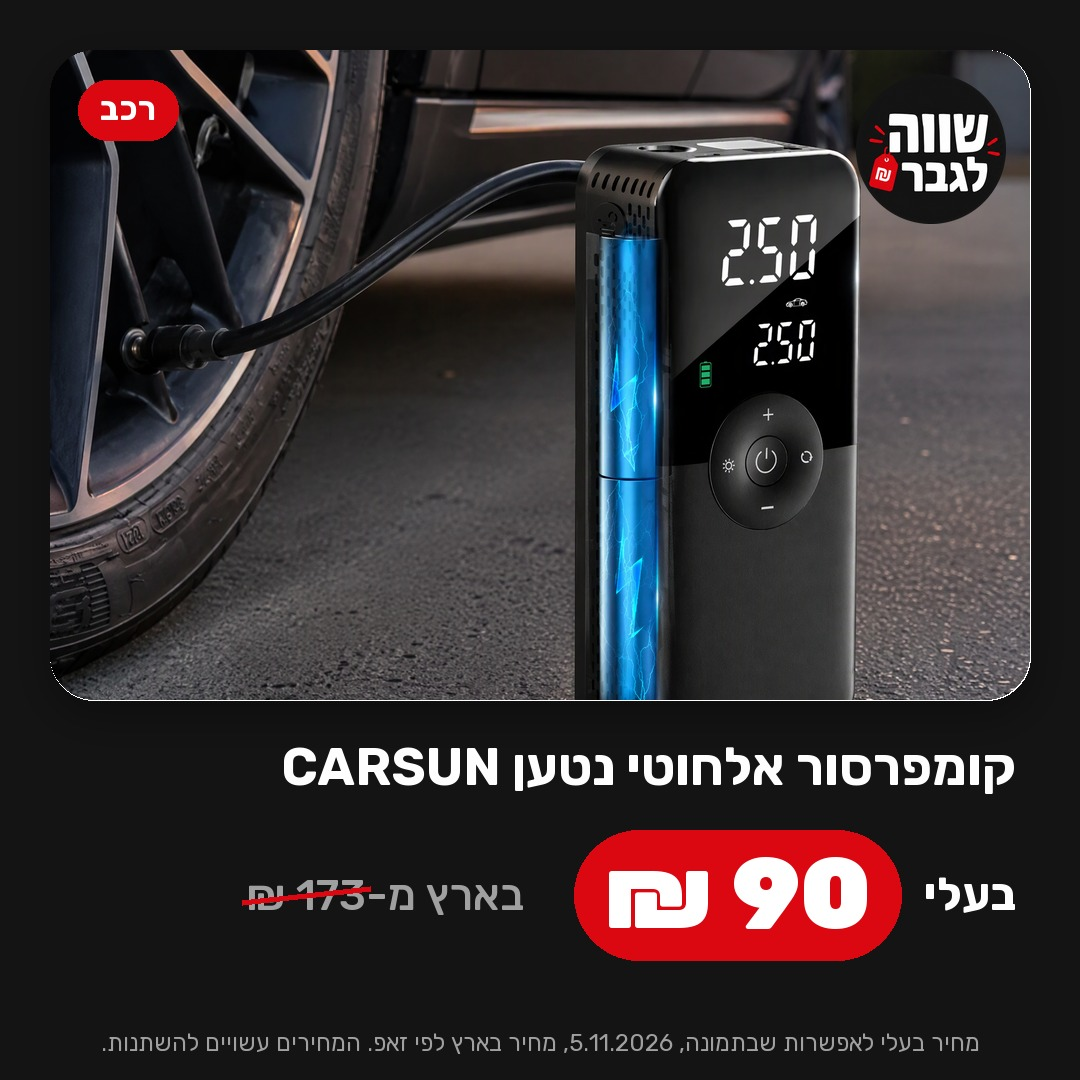
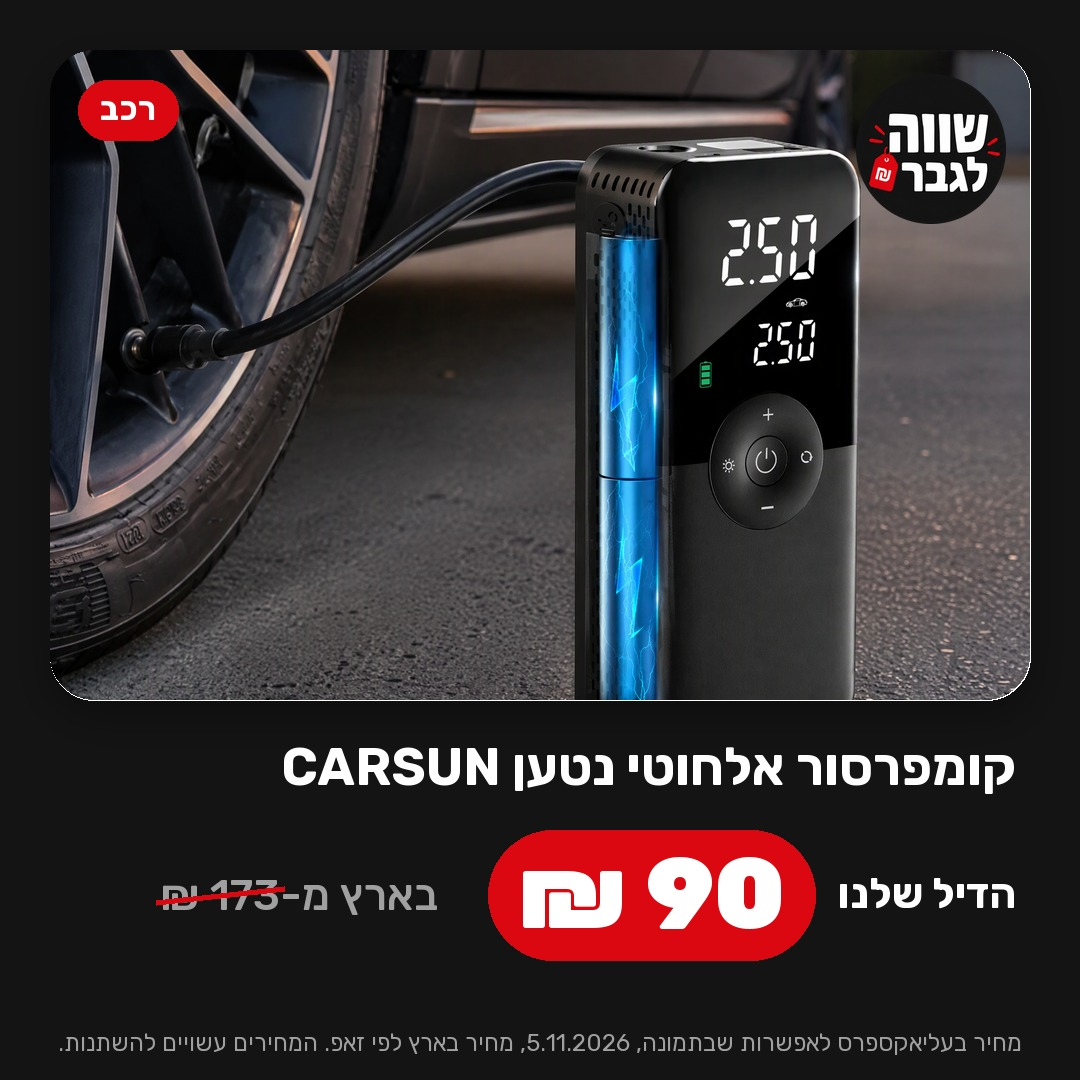
Store-neutral brand copy: הדיל שלנו instead of בעלי, generic store disclosure
Deals will also come from stores other than AliExpress. Homepage, /join, /join-b, /deals and the
/guide example post now use הדיל שלנו / אונליין; per-deal buy lines still name the real store.

Claude-Session: https://claude.ai/code/session_014xAJSXDDb9xLF4ARjncj2H

Changed region(s): [[0.1528, 0.7639, 0.9472, 0.9167], [0.0611, 0.9472, 0.9472, 0.9778]]

diff --git a/deals/index.html b/deals/index.html
@@ -1,11 +1,7 @@
-<!doctype html><html lang="he" dir="rtl"><head>
-<!-- Google tag (GA4) -->
-<script async src="https://www.googletagmanager.com/gtm.js?id=GTM-KSTKHQN8"></script>
-<script>window.dataLayer=window.dataLayer||[];function gtag(){dataLayer.push(arguments)}gtag('js',new Date());</script>
-<meta charset="utf-8">
+<!doctype html><html lang="he" dir="rtl"><head><meta charset="utf-8">
 <meta name="viewport" content="width=device-width,initial-scale=1,viewport-fit=cover">
 <title>כל הדילים | שווה לגבר</title>
-<meta name="description" content="כל הדילים שפרסמנו בקבוצת שווה לגבר: המחיר בארץ מול המחיר בעליאקספרס, במקום אחד.">
+<meta name="description" content="כל הדילים שפרסמנו בקבוצת שווה לגבר: המחיר בארץ מול הדיל שלנו, במקום אחד.">
 <meta name="theme-color" content="#131413"><link rel="icon" href="../img/icon.png">
 <link rel="preconnect" href="https://fonts.googleapis.com"><link rel="preconnect" href="https://fonts.gstatic.com" crossorigin>
 <link rel="stylesheet" href="https://fonts.googleapis.com/css2?family=Rubik:wght@400;500;600;700;800;900&display=swap">
@@ -45,6 +41,9 @@ details p{margin:6px 0 0}
 footer{max-width:1100px;margin:0 auto;padding:0 16px 40px;font-size:13px;color:#6b6a63}
 @media (max-width:520px){.join{margin-inline-start:0;width:100%;justify-content:center}}
 </style>
+<!-- Google tag (GA4) -->
+<script async src="https://www.googletagmanager.com/gtm.js?id=GTM-KSTKHQN8"></script>
+<script>window.dataLayer=window.dataLayer||[];function gtag(){dataLayer.push(arguments)}gtag('js',new Date());</script>
 <!-- Meta Pixel -->
 <script>!function(f,b,e,v,n,t,s){if(f.fbq)return;n=f.fbq=function(){n.callMethod?n.callMethod.apply(n,arguments):n.queue.push(arguments)};if(!f._fbq)f._fbq=n;n.push=n;n.loaded=!0;n.version='2.0';n.queue=[];t=b.createElement(e);t.async=!0;t.src=v;s=b.getElementsByTagName(e)[0];s.parentNode.insertBefore(t,s)}(window,document,'script','https://connect.facebook.net/en_US/fbevents.js');
 fbq('init','1895010951663413');fbq('track','PageView');
@@ -57,84 +56,94 @@ var h=a.getAttribute('href');if(!h||h.charAt(0)==='#'||ev.metaKey||ev.ctrlKey)re
 <div><h1>כל הדילים במקום אחד</h1><p class="sub">כל מה שפרסמנו בקבוצת שווה לגבר, מהחדש לישן</p></div>
 <a class="join" href="https://chat.whatsapp.com/LGcSTJL4X9g83Wef4XJM8X" rel="noopener" data-join><svg viewBox="0 0 32 32" aria-hidden="true"><path fill="currentColor" d="M16 3a13 13 0 0 0-11.2 19.6L3 29l6.6-1.7A13 13 0 1 0 16 3zm0 23.6c-2 0-4-.5-5.7-1.6l-.4-.2-3.9 1 1-3.8-.3-.4A10.6 10.6 0 1 1 16 26.6zm5.8-7.9c-.3-.2-1.9-.9-2.2-1-.3-.1-.5-.2-.7.2l-1 1.2c-.2.2-.4.2-.7.1a8.7 8.7 0 0 1-4.3-3.8c-.3-.6.3-.5.9-1.7.1-.2 0-.4 0-.6l-1-2.4c-.3-.6-.5-.5-.7-.5h-.6c-.2 0-.6.1-.9.4-.3.3-1.2 1.2-1.2 2.9s1.2 3.3 1.4 3.6c.2.2 2.4 3.7 5.8 5.2 2.2.9 3 1 4.1.8.7-.1 1.9-.8 2.2-1.6.3-.8.3-1.4.2-1.6-.1-.1-.3-.2-.6-.3z"/></svg><span>לקבוצת הוואטסאפ</span></a></div></div></header>
 <div class="tools"><input id="q" type="search" placeholder="חיפוש מוצר…" aria-label="חיפוש מוצר"></div>
-<div class="chips" role="group" aria-label="קטגוריה"><button class="chip" type="button" data-t="" aria-pressed="true">הכל</button><button class="chip" type="button" data-t="__il" id="il" aria-pressed="false">📦 משלוח מישראל</button><button class="chip" type="button" data-t="גאדג׳טים" aria-pressed="false">גאדג׳טים</button><button class="chip" type="button" data-t="טיפוח" aria-pressed="false">טיפוח</button><button class="chip" type="button" data-t="כלי עבודה" aria-pressed="false">כלי עבודה</button><button class="chip" type="button" data-t="כלים" aria-pressed="false">כלים</button><button class="chip" type="button" data-t="לרכב" aria-pressed="false">לרכב</button><button class="chip" type="button" data-t="לרכב ולטיולים" aria-pressed="false">לרכב ולטיולים</button><button class="chip" type="button" data-t="רכב" aria-pressed="false">רכב</button><button class="chip" type="button" data-t="שטח" aria-pressed="false">שטח</button><button class="chip" type="button" data-t="תאורה" aria-pressed="false">תאורה</button></div>
+<div class="chips" role="group" aria-label="קטגוריה"><button class="chip" type="button" data-t="" aria-pressed="true">הכל</button><button class="chip" type="button" data-t="__il" id="il" aria-pressed="false">📦 משלוח מישראל</button><button class="chip" type="button" data-t="גאדג׳טים" aria-pressed="false">גאדג׳טים</button><button class="chip" type="button" data-t="טיפוח" aria-pressed="false">טיפוח</button><button class="chip" type="button" data-t="כושר" aria-pressed="false">כושר</button><button class="chip" type="button" data-t="כלי עבודה" aria-pressed="false">כלי עבודה</button><button class="chip" type="button" data-t="כלים" aria-pressed="false">כלים</button><button class="chip" type="button" data-t="לרכב" aria-pressed="false">לרכב</button><button class="chip" type="button" data-t="לרכב ולטיולים" aria-pressed="false">לרכב ולטיולים</button><button class="chip" type="button" data-t="רכב" aria-pressed="false">רכב</button><button class="chip" type="button" data-t="שטח" aria-pressed="false">שטח</button><button class="chip" type="button" data-t="תאורה" aria-pressed="false">תאורה</button></div>
 <main class="grid" id="grid"><article class="card" data-t="שטח" data-il="" data-q="פנס טקטי נטען עם זום שטח">
 <img src="img/2026-11-08-gever-1.jpg" alt="פנס טקטי נטען עם זום" loading="lazy" width="600" height="600">
 <div class="body"><div class="meta"><span class="tag">שטח</span><span>פורסם 08.11</span></div>
-<h2 class="name">פנס טקטי נטען עם זום</h2><p class="il">פנסים טקטיים בארץ: מ-50 ₪</p><p class="ali">בעלי: 13 ₪<small>מחיר רגיל לאפשרות הזולה, בזמן הפרסום</small></p>
+<h2 class="name">פנס טקטי נטען עם זום</h2><p class="il">פנסים טקטיים בארץ: מ-50 ₪</p><p class="ali">הדיל שלנו: 13 ₪<small>מחיר רגיל לאפשרות הזולה, בזמן הפרסום</small></p>
 <details><summary>למה בחרנו ומה לבדוק</summary><p>✅ 98% ביקורות חיוביות, יותר מ-18,000 נמכרו, נטען ב-USB-C</p><p>⚠ מספר הלומן שהיצרן כותב גבוה ממה שתקבלו בפועל. המחיר לדגם הבסיסי.</p></details>
-<a class="buy" href="https://s.click.aliexpress.com/e/_c32x7Omj" target="_blank" rel="sponsored noopener" data-deal="פנס טקטי נטען עם זום">לקנייה בעליאקספרס</a></div></article><article class="card" data-t="רכב" data-il="" data-q="קומפרסור אלחוטי נטען carsun רכב">
+<a class="buy" href="https://s.click.aliexpress.com/e/_c32x7Omj" target="_blank" rel="sponsored nofollow noopener" data-deal="פנס טקטי נטען עם זום">לקנייה בעליאקספרס</a></div></article><article class="card" data-t="כושר" data-il="" data-q="אקדח עיסוי מיני כושר">
+<img src="img/2026-11-08-gever-2.jpg" alt="אקדח עיסוי מיני" loading="lazy" width="600" height="600">
+<div class="body"><div class="meta"><span class="tag">כושר</span><span>פורסם 08.11</span></div>
+<h2 class="name">אקדח עיסוי מיני</h2><p class="il">אקדחי עיסוי מיני בארץ: מ-69 ₪</p><p class="ali">הדיל שלנו: 13 ₪<small>מחיר רגיל לאפשרות הזולה, בזמן הפרסום</small></p>
+<details><summary>למה בחרנו ומה לבדוק</summary><p>✅ 98% ביקורות חיוביות, יותר מ-2,300 נמכרו, קטן ונכנס לתיק</p><p>⚠ זה דגם מיני, חלש יותר מאקדח עיסוי מלא. מתאים לצוואר ולכתפיים.</p></details>
+<a class="buy" href="https://s.click.aliexpress.com/e/_c4o9d2UR" target="_blank" rel="sponsored nofollow noopener" data-deal="אקדח עיסוי מיני">לקנייה בעליאקספרס</a></div></article><article class="card" data-t="כלים" data-il="" data-q="קליבר דיגיטלי 150 מ״מ כלים">
+<img src="img/2026-11-08-gever-3.jpg" alt="קליבר דיגיטלי 150 מ״מ" loading="lazy" width="600" height="600">
+<div class="body"><div class="meta"><span class="tag">כלים</span><span>פורסם 08.11</span></div>
+<h2 class="name">קליבר דיגיטלי 150 מ״מ</h2><p class="il">קליבר דיגיטלי בארץ: מ-100 ₪</p><p class="ali">הדיל שלנו: 35 ₪<small>מחיר רגיל לאפשרות הזולה, בזמן הפרסום</small></p>
+<details><summary>למה בחרנו ומה לבדוק</summary><p>✅ 98% ביקורות חיוביות, יותר מ-2,900 נמכרו, מסך דיגיטלי ונעילת מדידה</p><p>⚠ יש כמה אפשרויות ברשימה, המחיר לזולה. לבדוק שבוחרים את הגרסה שבתמונה.</p></details>
+<a class="buy" href="https://s.click.aliexpress.com/e/_c3zn9q0X" target="_blank" rel="sponsored nofollow noopener" data-deal="קליבר דיגיטלי 150 מ״מ">לקנייה בעליאקספרס</a></div></article><article class="card" data-t="רכב" data-il="" data-q="קומפרסור אלחוטי נטען carsun רכב">
 <img src="img/2026-11-06-gever-1.jpg" alt="קומפרסור אלחוטי נטען CARSUN" loading="lazy" width="600" height="600">
 <div class="body"><div class="meta"><span class="tag">רכב</span><span>פורסם 06.11</span></div>
-<h2 class="name">קומפרסור אלחוטי נטען CARSUN</h2><p class="il">קומפרסורים אלחוטיים נטענים בארץ: 173-249 ₪</p><p class="ali">בעלי: 90 ₪<small>מחיר רגיל לאפשרות שבתמונה, בזמן הפרסום</small></p>
+<h2 class="name">קומפרסור אלחוטי נטען CARSUN</h2><p class="il">קומפרסורים אלחוטיים נטענים בארץ: 173-249 ₪</p><p class="ali">הדיל שלנו: 90 ₪<small>מחיר רגיל לאפשרות שבתמונה, בזמן הפרסום</small></p>
 <details><summary>למה בחרנו ומה לבדוק</summary><p>✅ 96% ביקורות חיוביות, יותר מ-4,000 נמכרו, נעצר לבד בלחץ שבוחרים</p><p>⚠ מתאים לצמיגי רכב, אופניים וכדורים. לצמיג ריק לגמרי של ג׳יפ זה ייקח כמה דקות.</p></details>
-<a class="buy" href="https://s.click.aliexpress.com/e/_c3vP5qCj" target="_blank" rel="sponsored noopener" data-deal="קומפרסור אלחוטי נטען CARSUN">לקנייה בעליאקספרס</a></div></article><article class="card" data-t="כלים" data-il="" data-q="מד מרחק לייזר מיני 30 מטר כלים">
+<a class="buy" href="https://s.click.aliexpress.com/e/_c3vP5qCj" target="_blank" rel="sponsored nofollow noopener" data-deal="קומפרסור אלחוטי נטען CARSUN">לקנייה בעליאקספרס</a></div></article><article class="card" data-t="כלים" data-il="" data-q="מד מרחק לייזר מיני 30 מטר כלים">
 <img src="img/2026-11-06-gever-2.jpg" alt="מד מרחק לייזר מיני 30 מטר" loading="lazy" width="600" height="600">
 <div class="body"><div class="meta"><span class="tag">כלים</span><span>פורסם 06.11</span></div>
-<h2 class="name">מד מרחק לייזר מיני 30 מטר</h2><p class="il">מדי מרחק לייזר בארץ: מ-148 ₪</p><p class="ali">בעלי: 54 ₪<small>מחיר רגיל לאפשרות שבתמונה, בזמן הפרסום</small></p>
+<h2 class="name">מד מרחק לייזר מיני 30 מטר</h2><p class="il">מדי מרחק לייזר בארץ: מ-148 ₪</p><p class="ali">הדיל שלנו: 54 ₪<small>מחיר רגיל לאפשרות שבתמונה, בזמן הפרסום</small></p>
 <details><summary>למה בחרנו ומה לבדוק</summary><p>✅ 96% ביקורות חיוביות, שוקל 25 גרם ונטען ב-USB</p><p>⚠ טווח 30 מטר, בחוץ באור שמש חזק הנקודה קשה לראות.</p></details>
-<a class="buy" href="https://s.click.aliexpress.com/e/_c3b8tJnl" target="_blank" rel="sponsored noopener" data-deal="מד מרחק לייזר מיני 30 מטר">לקנייה בעליאקספרס</a></div></article><article class="card" data-t="גאדג׳טים" data-il="" data-q="מפוח טורבו נטען למחשב ולרכב גאדג׳טים">
+<a class="buy" href="https://s.click.aliexpress.com/e/_c3b8tJnl" target="_blank" rel="sponsored nofollow noopener" data-deal="מד מרחק לייזר מיני 30 מטר">לקנייה בעליאקספרס</a></div></article><article class="card" data-t="גאדג׳טים" data-il="" data-q="מפוח טורבו נטען למחשב ולרכב גאדג׳טים">
 <img src="img/2026-11-06-gever-3.jpg" alt="מפוח טורבו נטען למחשב ולרכב" loading="lazy" width="600" height="600">
 <div class="body"><div class="meta"><span class="tag">גאדג׳טים</span><span>פורסם 06.11</span></div>
-<h2 class="name">מפוח טורבו נטען למחשב ולרכב</h2><p class="il">מפוח טורבו נטען דומה בארץ: 178 ₪</p><p class="ali">בעלי: 53 ₪<small>מחיר רגיל לאפשרות שבתמונה, בזמן הפרסום</small></p>
+<h2 class="name">מפוח טורבו נטען למחשב ולרכב</h2><p class="il">מפוח טורבו נטען דומה בארץ: 178 ₪</p><p class="ali">הדיל שלנו: 53 ₪<small>מחיר רגיל לאפשרות שבתמונה, בזמן הפרסום</small></p>
 <details><summary>למה בחרנו ומה לבדוק</summary><p>✅ 98% ביקורות חיוביות, יותר מ-3,000 נמכרו, מגיע עם 6 אביזרים</p><p>⚠ 53 ₪ לגרסה עם 6 אביזרים, הגרסה עם 7 עולה כ-25 ₪ יותר. רועש כמו פן.</p></details>
-<a class="buy" href="https://s.click.aliexpress.com/e/_c33d2CLt" target="_blank" rel="sponsored noopener" data-deal="מפוח טורבו נטען למחשב ולרכב">לקנייה בעליאקספרס</a></div></article><article class="card" data-t="טיפוח" data-il="" data-q="מכונת תספורת kemei km-2299 אלחוטית טיפוח">
+<a class="buy" href="https://s.click.aliexpress.com/e/_c33d2CLt" target="_blank" rel="sponsored nofollow noopener" data-deal="מפוח טורבו נטען למחשב ולרכב">לקנייה בעליאקספרס</a></div></article><article class="card" data-t="טיפוח" data-il="" data-q="מכונת תספורת kemei km-2299 אלחוטית טיפוח">
 <img src="img/2026-11-05-gever-1.jpg" alt="מכונת תספורת Kemei KM-2299 אלחוטית" loading="lazy" width="600" height="600">
 <div class="body"><div class="meta"><span class="tag">טיפוח</span><span>פורסם 05.11</span></div>
-<h2 class="name">מכונת תספורת Kemei KM-2299 אלחוטית</h2><p class="il">אותו דגם בארץ: 178 ₪</p><p class="ali">בעלי: 51 ₪<small>מחיר רגיל לאפשרות הזולה, בזמן הפרסום</small></p>
+<h2 class="name">מכונת תספורת Kemei KM-2299 אלחוטית</h2><p class="il">אותו דגם בארץ: 178 ₪</p><p class="ali">הדיל שלנו: 51 ₪<small>מחיר רגיל לאפשרות הזולה, בזמן הפרסום</small></p>
 <details><summary>למה בחרנו ומה לבדוק</summary><p>✅ 98% ביקורות חיוביות, יותר מ-14,000 נמכרו</p><p>⚠ המחיר לצבע שחור. בארץ קונים מיבואן רשמי עם אחריות, מעליאקספרס אין אחריות מקומית.</p></details>
-<a class="buy" href="https://s.click.aliexpress.com/e/_c3jVyYrl" target="_blank" rel="sponsored noopener" data-deal="מכונת תספורת Kemei KM-2299 אלחוטית">לקנייה בעליאקספרס</a></div></article><article class="card" data-t="שטח" data-il="" data-q="פנס ראש נטען שנתלה על האוזן שטח">
+<a class="buy" href="https://s.click.aliexpress.com/e/_c3jVyYrl" target="_blank" rel="sponsored nofollow noopener" data-deal="מכונת תספורת Kemei KM-2299 אלחוטית">לקנייה בעליאקספרס</a></div></article><article class="card" data-t="שטח" data-il="" data-q="פנס ראש נטען שנתלה על האוזן שטח">
 <img src="img/2026-11-05-gever-2.jpg" alt="פנס ראש נטען שנתלה על האוזן" loading="lazy" width="600" height="600">
 <div class="body"><div class="meta"><span class="tag">שטח</span><span>פורסם 05.11</span></div>
-<h2 class="name">פנס ראש נטען שנתלה על האוזן</h2><p class="il">פנסי ראש נטענים בארץ: מ-46 ₪</p><p class="ali">בעלי: 17 ₪<small>מחיר רגיל לאפשרות הזולה, בזמן הפרסום</small></p>
+<h2 class="name">פנס ראש נטען שנתלה על האוזן</h2><p class="il">פנסי ראש נטענים בארץ: מ-46 ₪</p><p class="ali">הדיל שלנו: 17 ₪<small>מחיר רגיל לאפשרות הזולה, בזמן הפרסום</small></p>
 <details><summary>למה בחרנו ומה לבדוק</summary><p>✅ 98% ביקורות חיוביות, יותר מ-15,000 נמכרו</p><p>⚠ נתלה על האוזן או נצמד לכובע, אין רצועת ראש רגילה. המחיר לדגם 6818A.</p></details>
-<a class="buy" href="https://s.click.aliexpress.com/e/_c2yETNhH" target="_blank" rel="sponsored noopener" data-deal="פנס ראש נטען שנתלה על האוזן">לקנייה בעליאקספרס</a></div></article><article class="card" data-t="לרכב ולטיולים" data-il="" data-q="תרמוס נירוסטה tyeso 600 מ״ל לרכב ולטיולים">
+<a class="buy" href="https://s.click.aliexpress.com/e/_c2yETNhH" target="_blank" rel="sponsored nofollow noopener" data-deal="פנס ראש נטען שנתלה על האוזן">לקנייה בעליאקספרס</a></div></article><article class="card" data-t="לרכב ולטיולים" data-il="" data-q="תרמוס נירוסטה tyeso 600 מ״ל לרכב ולטיולים">
 <img src="img/2026-11-05-gever-3.jpg" alt="תרמוס נירוסטה TYESO 600 מ״ל" loading="lazy" width="600" height="600">
 <div class="body"><div class="meta"><span class="tag">לרכב ולטיולים</span><span>פורסם 05.11</span></div>
-<h2 class="name">תרמוס נירוסטה TYESO 600 מ״ל</h2><p class="il">תרמוס נירוסטה 500 מ״ל בארץ: 70 ₪</p><p class="ali">בעלי: 37 ₪<small>מחיר רגיל לאפשרות הזולה, בזמן הפרסום</small></p>
+<h2 class="name">תרמוס נירוסטה TYESO 600 מ״ל</h2><p class="il">תרמוס נירוסטה 500 מ״ל בארץ: 70 ₪</p><p class="ali">הדיל שלנו: 37 ₪<small>מחיר רגיל לאפשרות הזולה, בזמן הפרסום</small></p>
 <details><summary>למה בחרנו ומה לבדוק</summary><p>✅ מותג TYESO, 97% ביקורות חיוביות, יותר מ-3,500 נמכרו</p><p>⚠ המחיר לגודל 600 מ״ל. 750 מ״ל ומעלה עולים יותר.</p></details>
-<a class="buy" href="https://s.click.aliexpress.com/e/_c4pyop43" target="_blank" rel="sponsored noopener" data-deal="תרמוס נירוסטה TYESO 600 מ״ל">לקנייה בעליאקספרס</a></div></article><article class="card" data-t="רכב" data-il="" data-q="מתאם carplay אלחוטי לרכב רכב">
+<a class="buy" href="https://s.click.aliexpress.com/e/_c4pyop43" target="_blank" rel="sponsored nofollow noopener" data-deal="תרמוס נירוסטה TYESO 600 מ״ל">לקנייה בעליאקספרס</a></div></article><article class="card" data-t="רכב" data-il="" data-q="מתאם carplay אלחוטי לרכב רכב">
 <img src="img/2026-11-05-gever-carplay.jpg" alt="מתאם CarPlay אלחוטי לרכב" loading="lazy" width="600" height="600">
 <div class="body"><div class="meta"><span class="tag">רכב</span><span>פורסם 05.11</span></div>
-<h2 class="name">מתאם CarPlay אלחוטי לרכב</h2><p class="il">מתאמי CarPlay אלחוטיים בארץ: מ-70 ₪</p><p class="ali">בעלי: 36 ₪<small>מחיר רגיל לאפשרות הזולה, בזמן הפרסום</small></p>
+<h2 class="name">מתאם CarPlay אלחוטי לרכב</h2><p class="il">מתאמי CarPlay אלחוטיים בארץ: מ-70 ₪</p><p class="ali">הדיל שלנו: 36 ₪<small>מחיר רגיל לאפשרות הזולה, בזמן הפרסום</small></p>
 <details><summary>למה בחרנו ומה לבדוק</summary><p>✅ יותר מ-29,000 נמכרו, נכנס ל-USB ומתחבר לבד כשנכנסים לרכב</p><p>⚠ מתאים רק לרכב שכבר יש בו CarPlay עם כבל, הוא הופך אותו לאלחוטי. הדירוג 90%, נמוך מהרגיל אצלנו. ל-Android Auto המוכר לא מבטיח בבירור, לבעלי אנדרואיד לבדוק לפני.</p></details>
-<a class="buy" href="https://s.click.aliexpress.com/e/_c3eCwAV5" target="_blank" rel="sponsored noopener" data-deal="מתאם CarPlay אלחוטי לרכב">לקנייה בעליאקספרס</a></div></article><article class="card" data-t="כלי עבודה" data-il="" data-q="מברגה חשמלית worx 4v (wx240) כלי עבודה">
+<a class="buy" href="https://s.click.aliexpress.com/e/_c3eCwAV5" target="_blank" rel="sponsored nofollow noopener" data-deal="מתאם CarPlay אלחוטי לרכב">לקנייה בעליאקספרס</a></div></article><article class="card" data-t="כלי עבודה" data-il="" data-q="מברגה חשמלית worx 4v (wx240) כלי עבודה">
 <img src="img/2026-11-04-gever-1.jpg" alt="מברגה חשמלית WORX 4V (WX240)" loading="lazy" width="600" height="600">
 <div class="body"><div class="meta"><span class="tag">כלי עבודה</span><span>פורסם 04.11</span></div>
-<h2 class="name">מברגה חשמלית WORX 4V (WX240)</h2><p class="il">בארץ: 159 ₪</p><p class="ali">בעלי: 76 ₪<small>מחיר למצטרפים חדשים לעליאקספרס, בזמן הפרסום</small></p>
+<h2 class="name">מברגה חשמלית WORX 4V (WX240)</h2><p class="il">בארץ: 159 ₪</p><p class="ali">הדיל שלנו: 76 ₪<small>מחיר למצטרפים חדשים לעליאקספרס, בזמן הפרסום</small></p>
 <details><summary>למה בחרנו ומה לבדוק</summary><p>✅ מותג WORX, דירוג 4.9, יותר מ-10,000 נמכרו</p><p>⚠ המחיר לדגם WX240. דגם WX242 עולה 107 ₪.</p></details>
-<a class="buy" href="https://s.click.aliexpress.com/e/_c33Ba0Rl" target="_blank" rel="sponsored noopener" data-deal="מברגה חשמלית WORX 4V (WX240)">לקנייה בעליאקספרס</a></div></article><article class="card" data-t="לרכב" data-il="" data-q="בוסטר התנעה + מדחס אוויר + פאוור בנק לרכב">
+<a class="buy" href="https://s.click.aliexpress.com/e/_c33Ba0Rl" target="_blank" rel="sponsored nofollow noopener" data-deal="מברגה חשמלית WORX 4V (WX240)">לקנייה בעליאקספרס</a></div></article><article class="card" data-t="לרכב" data-il="" data-q="בוסטר התנעה + מדחס אוויר + פאוור בנק לרכב">
 <img src="img/2026-11-04-gever-2.jpg" alt="בוסטר התנעה + מדחס אוויר + פאוור בנק" loading="lazy" width="600" height="600">
 <div class="body"><div class="meta"><span class="tag">לרכב</span><span>פורסם 04.11</span></div>
-<h2 class="name">בוסטר התנעה + מדחס אוויר + פאוור בנק</h2><p class="il">בוסטר עם מדחס בארץ: מ-379 ₪</p><p class="ali">בעלי: 134 ₪<small>מחיר למצטרפים חדשים לעליאקספרס, בזמן הפרסום</small></p>
+<h2 class="name">בוסטר התנעה + מדחס אוויר + פאוור בנק</h2><p class="il">בוסטר עם מדחס בארץ: מ-379 ₪</p><p class="ali">הדיל שלנו: 134 ₪<small>מחיר למצטרפים חדשים לעליאקספרס, בזמן הפרסום</small></p>
 <details><summary>למה בחרנו ומה לבדוק</summary><p>✅ דירוג 4.7, יותר מ-5,000 נמכרו</p><p>⚠ המחיר לדגם הבסיסי QY03. לבדוק שמתאים לנפח המנוע.</p></details>
-<a class="buy" href="https://s.click.aliexpress.com/e/_c4qmmjYT" target="_blank" rel="sponsored noopener" data-deal="בוסטר התנעה + מדחס אוויר + פאוור בנק">לקנייה בעליאקספרס</a></div></article><article class="card" data-t="לרכב" data-il="" data-q="מצלמת דרך ddpai z50 pro, 4k קדימה + אחורית לרכב">
+<a class="buy" href="https://s.click.aliexpress.com/e/_c4qmmjYT" target="_blank" rel="sponsored nofollow noopener" data-deal="בוסטר התנעה + מדחס אוויר + פאוור בנק">לקנייה בעליאקספרס</a></div></article><article class="card" data-t="לרכב" data-il="" data-q="מצלמת דרך ddpai z50 pro, 4k קדימה + אחורית לרכב">
 <img src="img/2026-11-04-gever-3.jpg" alt="מצלמת דרך DDPAI Z50 Pro, 4K קדימה + אחורית" loading="lazy" width="600" height="600">
 <div class="body"><div class="meta"><span class="tag">לרכב</span><span>פורסם 04.11</span></div>
-<h2 class="name">מצלמת דרך DDPAI Z50 Pro, 4K קדימה + אחורית</h2><p class="il">בארץ: 759 ₪</p><p class="ali">בעלי: 287 ₪<small>מחיר למצטרפים חדשים לעליאקספרס, בזמן הפרסום</small></p>
+<h2 class="name">מצלמת דרך DDPAI Z50 Pro, 4K קדימה + אחורית</h2><p class="il">בארץ: 759 ₪</p><p class="ali">הדיל שלנו: 287 ₪<small>מחיר למצטרפים חדשים לעליאקספרס, בזמן הפרסום</small></p>
 <details><summary>למה בחרנו ומה לבדוק</summary><p>✅ דירוג 4.8, יותר מ-3,000 נמכרו</p><p>⚠ בוחרים 2-Channel כדי לקבל גם מצלמה אחורית. כרטיס זיכרון לא כלול.</p></details>
-<a class="buy" href="https://s.click.aliexpress.com/e/_c2QcPpAP" target="_blank" rel="sponsored noopener" data-deal="מצלמת דרך DDPAI Z50 Pro, 4K קדימה + אחורית">לקנייה בעליאקספרס</a></div></article><article class="card" data-t="תאורה" data-il="1" data-q="זרקור led על חצובה תאורה">
+<a class="buy" href="https://s.click.aliexpress.com/e/_c2QcPpAP" target="_blank" rel="sponsored nofollow noopener" data-deal="מצלמת דרך DDPAI Z50 Pro, 4K קדימה + אחורית">לקנייה בעליאקספרס</a></div></article><article class="card" data-t="תאורה" data-il="1" data-q="זרקור led על חצובה תאורה">
 <img src="img/il-1005011649209657.jpg" alt="זרקור LED על חצובה" loading="lazy" width="600" height="600">
 <div class="body"><div class="meta"><span class="tag">תאורה</span><span>נשלח מישראל</span></div><span class="ilb">📦 נשלח מישראל</span>
-<h2 class="name">זרקור LED על חצובה</h2><p class="ali">בעלי: 132 ₪<small>מחיר רגיל לאפשרות הזולה, נבדק 08.11</small></p>
+<h2 class="name">זרקור LED על חצובה</h2><p class="ali">הדיל שלנו: 132 ₪<small>מחיר רגיל לאפשרות הזולה, נבדק 08.11</small></p>
 <details><summary>למה בחרנו ומה לבדוק</summary><p>✅ דירוג 4.8, חצובה מתכווננת לעבודה בחוץ ובמחסן</p><p>⚠ יש גרסה עם ראש בודד וגרסה עם ראש כפול, המחיר לזולה. לא השווינו מפרט אחד לאחד מול זרקורים בארץ.</p></details>
-<a class="buy" href="https://s.click.aliexpress.com/e/_c3ym8iAT" target="_blank" rel="sponsored noopener" data-deal="זרקור LED על חצובה">לקנייה בעליאקספרס</a></div></article><article class="card" data-t="תאורה" data-il="1" data-q="פנס עבודה נטען, ראש כפול 1600 לומן תאורה">
+<a class="buy" href="https://s.click.aliexpress.com/e/_c3ym8iAT" target="_blank" rel="sponsored nofollow noopener" data-deal="זרקור LED על חצובה">לקנייה בעליאקספרס</a></div></article><article class="card" data-t="תאורה" data-il="1" data-q="פנס עבודה נטען, ראש כפול 1600 לומן תאורה">
 <img src="img/il-1005012088526248.jpg" alt="פנס עבודה נטען, ראש כפול 1600 לומן" loading="lazy" width="600" height="600">
 <div class="body"><div class="meta"><span class="tag">תאורה</span><span>נשלח מישראל</span></div><span class="ilb">📦 נשלח מישראל</span>
-<h2 class="name">פנס עבודה נטען, ראש כפול 1600 לומן</h2><p class="ali">בעלי: 188 ₪<small>מחיר רגיל לאפשרות הזולה, נבדק 08.11</small></p>
+<h2 class="name">פנס עבודה נטען, ראש כפול 1600 לומן</h2><p class="ali">הדיל שלנו: 188 ₪<small>מחיר רגיל לאפשרות הזולה, נבדק 08.11</small></p>
 <details><summary>למה בחרנו ומה לבדוק</summary><p>✅ נטען, שני ראשים, 1600 לומן</p><p>⚠ כמעט אין עדיין מכירות וביקורות על הדגם הזה.</p></details>
-<a class="buy" href="https://s.click.aliexpress.com/e/_c4qxL0DD" target="_blank" rel="sponsored noopener" data-deal="פנס עבודה נטען, ראש כפול 1600 לומן">לקנייה בעליאקספרס</a></div></article><article class="card" data-t="גאדג׳טים" data-il="1" data-q="טאבלט xiaomi redmi pad 2, 4gb 64gb גאדג׳טים">
+<a class="buy" href="https://s.click.aliexpress.com/e/_c4qxL0DD" target="_blank" rel="sponsored nofollow noopener" data-deal="פנס עבודה נטען, ראש כפול 1600 לומן">לקנייה בעליאקספרס</a></div></article><article class="card" data-t="גאדג׳טים" data-il="1" data-q="טאבלט xiaomi redmi pad 2, 4gb 64gb גאדג׳טים">
 <img src="img/il-1005013499128147.jpg" alt="טאבלט Xiaomi Redmi Pad 2, 4GB 64GB" loading="lazy" width="600" height="600">
 <div class="body"><div class="meta"><span class="tag">גאדג׳טים</span><span>נשלח מישראל</span></div><span class="ilb">📦 נשלח מישראל</span>
-<h2 class="name">טאבלט Xiaomi Redmi Pad 2, 4GB 64GB</h2><p class="ali">בעלי: 631 ₪<small>מחיר רגיל לאפשרות הזולה, נבדק 08.11</small></p>
+<h2 class="name">טאבלט Xiaomi Redmi Pad 2, 4GB 64GB</h2><p class="ali">הדיל שלנו: 631 ₪<small>מחיר רגיל לאפשרות הזולה, נבדק 08.11</small></p>
 <details><summary>למה בחרנו ומה לבדוק</summary><p>✅ 57 נמכרו בחודש האחרון, מסך 9.7 אינץ׳</p><p>⚠ בארץ לא מצאנו את אותה גרסה בדיוק, אז אין השוואת מחיר. בודקים שהגרסה מתאימה לכם לפני שקונים.</p></details>
-<a class="buy" href="https://s.click.aliexpress.com/e/_c30FsaUP" target="_blank" rel="sponsored noopener" data-deal="טאבלט Xiaomi Redmi Pad 2, 4GB 64GB">לקנייה בעליאקספרס</a></div></article><article class="card" data-t="גאדג׳טים" data-il="1" data-q="xiaomi 15t pro 5g, 12gb 1tb גאדג׳טים">
+<a class="buy" href="https://s.click.aliexpress.com/e/_c30FsaUP" target="_blank" rel="sponsored nofollow noopener" data-deal="טאבלט Xiaomi Redmi Pad 2, 4GB 64GB">לקנייה בעליאקספרס</a></div></article><article class="card" data-t="גאדג׳טים" data-il="1" data-q="xiaomi 15t pro 5g, 12gb 1tb גאדג׳טים">
 <img src="img/il-1005013485997051.jpg" alt="Xiaomi 15T Pro 5G, 12GB 1TB" loading="lazy" width="600" height="600">
 <div class="body"><div class="meta"><span class="tag">גאדג׳טים</span><span>נשלח מישראל</span></div><span class="ilb">📦 נשלח מישראל</span>
-<h2 class="name">Xiaomi 15T Pro 5G, 12GB 1TB</h2><p class="il">Xiaomi 15T Pro 12GB 1TB (אותו דגם) בארץ: מ-2,669 ₪</p><p class="ali">בעלי: 2070 ₪<small>מחיר רגיל לאפשרות הזולה, נבדק 08.11</small></p>
+<h2 class="name">Xiaomi 15T Pro 5G, 12GB 1TB</h2><p class="il">Xiaomi 15T Pro 12GB 1TB (אותו דגם) בארץ: מ-2,669 ₪</p><p class="ali">הדיל שלנו: 2070 ₪<small>מחיר רגיל לאפשרות הזולה, נבדק 08.11</small></p>
 <details><summary>למה בחרנו ומה לבדוק</summary><p>✅ אותו דגם בדיוק שנמכר בארץ, נשלח מישראל, 133 נמכרו בעליאקספרס</p><p>⚠ בארץ החנות הזולה היא יבוא מקביל. בודקים את האחריות שהחנות נותנת ובוחרים צבע לפני התשלום.</p></details>
-<a class="buy" href="https://s.click.aliexpress.com/e/_c4PKGUD1" target="_blank" rel="sponsored noopener" data-deal="Xiaomi 15T Pro 5G, 12GB 1TB">לקנייה בעליאקספרס</a></div></article><p class="empty" id="empty" hidden>לא מצאנו מוצר כזה. נסו מילה אחרת.</p></main>
-<footer><p>המחירים נכונים ליום הפרסום ועשויים להשתנות. הקנייה נעשית ישירות מול עליאקספרס והמוכרים, ואנחנו לא אחראים על המוצרים, המשלוח או השירות. הקישורים הם קישורי שותפים.</p></footer>
+<a class="buy" href="https://s.click.aliexpress.com/e/_c4PKGUD1" target="_blank" rel="sponsored nofollow noopener" data-deal="Xiaomi 15T Pro 5G, 12GB 1TB">לקנייה בעליאקספרס</a></div></article><p class="empty" id="empty" hidden>לא מצאנו מוצר כזה. נסו מילה אחרת.</p></main>
+<footer><p>המחירים נכונים ליום הפרסום ועשויים להשתנות. הקנייה נעשית ישירות מול החנות שבקישור והמוכרים, ואנחנו לא אחראים על המוצרים, המשלוח או השירות. הקישורים הם קישורי שותפים.</p></footer>
 <script>
 (function(){var q=document.getElementById('q'),cards=[].slice.call(document.querySelectorAll('.card')),t='',empty=document.getElementById('empty');
 function f(){var s=q.value.trim().toLowerCase(),n=0;cards.forEach(function(c){var ok=(!t||(t==='__il'?c.dataset.il==='1':c.dataset.t===t))&&(!s||c.dataset.q.indexOf(s)>-1);c.hidden=!ok;if(ok)n++});empty.hidden=n>0}

diff --git a/index.html b/index.html
@@ -1,16 +1,12 @@
 <!doctype html>
 <html lang="he" dir="rtl">
 <head>
-<!-- Google tag (GA4) -->
-<script async src="https://www.googletagmanager.com/gtm.js?id=GTM-KSTKHQN8"></script>
-<script>window.dataLayer=window.dataLayer||[];function gtag(){dataLayer.push(arguments)}gtag('js',new Date());</script>
-
 <meta charset="utf-8">
 <meta name="viewport" content="width=device-width,initial-scale=1,viewport-fit=cover">
 <title>שווה לגבר | כלים, רכב, שטח וגאדג&#x27;טים</title>
-<meta name="description" content="דילים מעליאקספרס: המוצרים הכי שווים במחירים הכי טובים. קהילת וואטסאפ חינמית.">
+<meta name="description" content="דילים אונליין: המוצרים הכי שווים במחירים הכי טובים. קהילת וואטסאפ חינמית.">
 <meta property="og:title" content="שווה לגבר | כלים, רכב, שטח וגאדג&#x27;טים">
-<meta property="og:description" content="דילים מעליאקספרס: המוצרים הכי שווים במחירים הכי טובים">
+<meta property="og:description" content="דילים אונליין: המוצרים הכי שווים במחירים הכי טובים">
 <meta property="og:image" content="img/og.jpg">
 <meta property="og:type" content="website">
 <meta name="theme-color" content="#131413">
@@ -71,6 +67,9 @@ footer p{margin:6px 0}
 }
 @media (prefers-reduced-motion:reduce){.btn{transition:none}}
 </style>
+<!-- Google tag (GA4) -->
+<script async src="https://www.googletagmanager.com/gtm.js?id=GTM-KSTKHQN8"></script>
+<script>window.dataLayer=window.dataLayer||[];function gtag(){dataLayer.push(arguments)}gtag('js',new Date());</script>
 <!-- Meta Pixel -->
 <script>!function(f,b,e,v,n,t,s){if(f.fbq)return;n=f.fbq=function(){n.callMethod?n.callMethod.apply(n,arguments):n.queue.push(arguments)};if(!f._fbq)f._fbq=n;n.push=n;n.loaded=!0;n.version='2.0';n.queue=[];t=b.createElement(e);t.async=!0;t.src=v;s=b.getElementsByTagName(e)[0];s.parentNode.insertBefore(t,s)}(window,document,'script','https://connect.facebook.net/en_US/fbevents.js');
 fbq('init','1895010951663413');fbq('track','PageView');
@@ -85,7 +84,7 @@ var h=a.getAttribute('href');if(!h||h.charAt(0)==='#'||ev.metaKey||ev.ctrlKey)re
     <div>
       <img class="logo" src="img/logo.png" alt="שווה לגבר" width="120" height="120">
       <h1>כלים, רכב, שטח וגאדג&#x27;טים</h1>
-      <p class="sub">דילים מעליאקספרס: המוצרים הכי שווים במחירים הכי טובים</p>
+      <p class="sub">דילים אונליין: המוצרים הכי שווים במחירים הכי טובים</p>
       <a class="btn" href="https://chat.whatsapp.com/LGcSTJL4X9g83Wef4XJM8X" rel="noopener" data-join><svg viewBox="0 0 32 32" aria-hidden="true"><path fill="currentColor" d="M16 3a13 13 0 0 0-11.2 19.6L3 29l6.6-1.7A13 13 0 1 0 16 3zm0 23.6c-2 0-4-.5-5.7-1.6l-.4-.2-3.9 1 1-3.8-.3-.4A10.6 10.6 0 1 1 16 26.6zm5.8-7.9c-.3-.2-1.9-.9-2.2-1-.3-.1-.5-.2-.7.2l-1 1.2c-.2.2-.4.2-.7.1a8.7 8.7 0 0 1-4.3-3.8c-.3-.6.3-.5.9-1.7.1-.2 0-.4 0-.6l-1-2.4c-.3-.6-.5-.5-.7-.5h-.6c-.2 0-.6.1-.9.4-.3.3-1.2 1.2-1.2 2.9s1.2 3.3 1.4 3.6c.2.2 2.4 3.7 5.8 5.2 2.2.9 3 1 4.1.8.7-.1 1.9-.8 2.2-1.6.3-.8.3-1.4.2-1.6-.1-.1-.3-.2-.6-.3z"/></svg><span>הצטרפו לקהילה בחינם</span></a>
       <p class="micro">בחינם · בלי הרשמה · אפשר לצאת בכל רגע</p>
     </div>
@@ -98,7 +97,7 @@ var h=a.getAttribute('href');if(!h||h.charAt(0)==='#'||ev.metaKey||ev.ctrlKey)re
     <h2>מה מקבלים בקהילה</h2>
     <div class="cards">
       <div class="card"><b>דילים נבחרים</b><p>מוצרים עם דירוג גבוה וביקורות טובות של קונים, בלי לחפש שעות.</p></div>
-      <div class="card"><b>בארץ מול בעלי</b><p>ליד כל מוצר המחיר בארץ והמחיר בעלי, כדי לראות כמה זה באמת חוסך.</p></div>
+      <div class="card"><b>בארץ מול הדיל שלנו</b><p>ליד כל מוצר המחיר בארץ ומחיר הדיל שלנו, כדי לראות כמה זה באמת חוסך.</p></div>
       <div class="card"><b>גם מה פחות טוב</b><p>בכל פוסט שורת "שימו לב": מידות, משלוח, מה לא כלול. בלי הפתעות.</p></div>
     </div>
   </section>
@@ -114,7 +113,7 @@ var h=a.getAttribute('href');if(!h||h.charAt(0)==='#'||ev.metaKey||ev.ctrlKey)re
 מברגה נטענת עם 2 סוללות
 
 בארץ: 399 ₪
-בעלי: 129 ₪
+הדיל שלנו: 129 ₪
 
 ✅ למה בחרנו: דירוג 4.8, אלפי קונים, ביקורות טובות
 ⚠ שימו לב: המטען מגיע עם תקע אירופאי
@@ -126,27 +125,27 @@ var h=a.getAttribute('href');if(!h||h.charAt(0)==='#'||ev.metaKey||ev.ctrlKey)re
     <div class="steps">
       <div class="step"><b>מצטרפים בלחיצה</b><p>קישור אחד לקהילה בוואטסאפ, בלי טפסים.</p></div>
       <div class="step"><b>מקבלים דילים</b><p>הדילים מגיעים ישר לוואטסאפ, ורק המנהלים כותבים.</p></div>
-      <div class="step"><b>קונים ישר מעליאקספרס</b><p>הקנייה עצמה בעליאקספרס, באותו מחיר.</p></div>
+      <div class="step"><b>קונים ישר מהחנות</b><p>הקנייה עצמה נעשית בחנות שבקישור, באותו מחיר.</p></div>
     </div>
   </section>
 
   <section>
     <h2>שאלות נפוצות</h2>
     <details><summary>זה עולה כסף?</summary><p>לא. ההצטרפות חינמית, ואפשר לצאת בכל רגע.</p></details>
-    <details><summary>איך אתם מרוויחים?</summary><p>הקישורים בקהילה ובאתר הם קישורי שותפים. כשקונים דרכם אנחנו מקבלים עמלה קטנה מעליאקספרס, והמחיר לכם לא משתנה.</p></details>
-    <details><summary>יש מכס או מע״מ?</summary><p>הזמנה עד 75 דולר פטורה ממכס וממע״מ. מעל זה משלמים מע״מ על כל החבילה, אז כדאי לפצל הזמנות גדולות.</p></details>
-    <details><summary>כמה זמן לוקח משלוח?</summary><p>זה תלוי במוכר ובשיטת המשלוח שבוחרים בעליאקספרס, ומופיע בעמוד המוצר לפני התשלום.</p></details>
+    <details><summary>איך אתם מרוויחים?</summary><p>הקישורים בקהילה ובאתר הם קישורי שותפים. הקנייה נעשית ישירות מול החנות שבקישור, וכשקונים דרכם אנחנו מקבלים ממנה עמלה קטנה. המחיר לכם לא משתנה.</p></details>
+    <details><summary>יש מכס או מע״מ?</summary><p>בהזמנה מחו״ל, עד 75 דולר פטור ממכס וממע״מ. מעל זה משלמים מע״מ על כל החבילה, אז כדאי לפצל הזמנות גדולות.</p></details>
+    <details><summary>כמה זמן לוקח משלוח?</summary><p>זה תלוי בחנות, במוכר ובשיטת המשלוח שבוחרים, ומופיע בעמוד המוצר לפני התשלום.</p></details>
   </section>
 
   <section class="final" id="join">
     <img class="logo" src="img/logo.png" alt="" width="120" height="120">
-    <h2>דילים מעליאקספרס: המוצרים הכי שווים במחירים הכי טובים</h2>
+    <h2>דילים אונליין: המוצרים הכי שווים במחירים הכי טובים</h2>
     <a class="btn" href="https://chat.whatsapp.com/LGcSTJL4X9g83Wef4XJM8X" rel="noopener" data-join><svg viewBox="0 0 32 32" aria-hidden="true"><path fill="currentColor" d="M16 3a13 13 0 0 0-11.2 19.6L3 29l6.6-1.7A13 13 0 1 0 16 3zm0 23.6c-2 0-4-.5-5.7-1.6l-.4-.2-3.9 1 1-3.8-.3-.4A10.6 10.6 0 1 1 16 26.6zm5.8-7.9c-.3-.2-1.9-.9-2.2-1-.3-.1-.5-.2-.7.2l-1 1.2c-.2.2-.4.2-.7.1a8.7 8.7 0 0 1-4.3-3.8c-.3-.6.3-.5.9-1.7.1-.2 0-.4 0-.6l-1-2.4c-.3-.6-.5-.5-.7-.5h-.6c-.2 0-.6.1-.9.4-.3.3-1.2 1.2-1.2 2.9s1.2 3.3 1.4 3.6c.2.2 2.4 3.7 5.8 5.2 2.2.9 3 1 4.1.8.7-.1 1.9-.8 2.2-1.6.3-.8.3-1.4.2-1.6-.1-.1-.3-.2-.6-.3z"/></svg><span>הצטרפו לקהילה בחינם</span></a>
   </section>
 
   <footer>
-    <p><b>שווה לגבר</b> · הקישורים בקהילה ובאתר הם קישורי שותפים. כשקונים דרכם אנחנו מקבלים עמלה קטנה מעליאקספרס, והמחיר לכם לא משתנה.</p>
-    <p>האתר אינו קשור לעליאקספרס ואינו מטעמה. המחירים והמבצעים נקבעים על ידי המוכרים ועשויים להשתנות.</p>
+    <p><b>שווה לגבר</b> · הקישורים בקהילה ובאתר הם קישורי שותפים. הקנייה נעשית ישירות מול החנות שבקישור, וכשקונים דרכם אנחנו מקבלים ממנה עמלה קטנה. המחיר לכם לא משתנה.</p>
+    <p>האתר אינו קשור לחנויות שבקישורים ואינו פועל מטעמן. המחירים והמבצעים נקבעים על ידי המוכרים ועשויים להשתנות.</p>
     <p>פרטיות: האתר לא אוסף פרטים אישיים כמו שם או טלפון. אנחנו משתמשים בפיקסל של מטא כדי למדוד ביקורים ולחיצות על כפתור ההצטרפות, ולשפר את הפרסום שלנו.</p>
     <p>יצירת קשר: <a href="mailto:aliexpressdeals53@gmail.com">aliexpressdeals53@gmail.com</a></p>
   </footer>

diff --git a/join/index.html b/join/index.html
@@ -1,15 +1,11 @@
 <!doctype html>
 <html lang="he" dir="rtl">
 <head>
-<!-- Google tag (GA4) -->
-<script async src="https://www.googletagmanager.com/gtm.js?id=GTM-KSTKHQN8"></script>
-<script>window.dataLayer=window.dataLayer||[];function gtag(){dataLayer.push(arguments)}gtag('js',new Date());</script>
-
 <meta charset="utf-8">
 <meta name="viewport" content="width=device-width,initial-scale=1,viewport-fit=cover">
 <title>שווה לגבר | הצטרפות לקהילה</title>
 <meta name="robots" content="noindex">
-<meta name="description" content="דילים מעליאקספרס: המוצרים הכי שווים במחירים הכי טובים">
+<meta name="description" content="דילים אונליין: המוצרים הכי שווים במחירים הכי טובים">
 <meta property="og:title" content="שווה לגבר">
 <meta property="og:image" content="../img/og.jpg">
 <meta name="theme-color" content="#131413">
@@ -54,10 +50,13 @@ li svg{flex:none;width:22px;height:22px;margin-top:2px}
 <script>(function(){var v,q=location.search.match(/[?&]v=(a|b)/i);try{v=localStorage.getItem('jv')}catch(e){}
 v=q?q[1].toUpperCase():'B';try{localStorage.setItem('jv',v)}catch(e){}
 if(v==='B'){window.__goB=1;location.replace('../join-b/'+location.search+location.hash)}})();</script>
+<!-- Google tag (GA4) -->
+<script async src="https://www.googletagmanager.com/gtm.js?id=GTM-KSTKHQN8"></script>
+<script>window.dataLayer=window.dataLayer||[];function gtag(){dataLayer.push(arguments)}gtag('js',new Date());</script>
 <!-- Meta Pixel -->
 <script>!function(f,b,e,v,n,t,s){if(f.fbq)return;n=f.fbq=function(){n.callMethod?n.callMethod.apply(n,arguments):n.queue.push(arguments)};if(!f._fbq)f._fbq=n;n.push=n;n.loaded=!0;n.version='2.0';n.queue=[];t=b.createElement(e);t.async=!0;t.src=v;s=b.getElementsByTagName(e)[0];s.parentNode.insertBefore(t,s)}(window,document,'script','https://connect.facebook.net/en_US/fbevents.js');
 fbq('init','1895010951663413');if(!window.__goB){fbq('track','PageView');fbq('trackCustom','JoinViewA')}
-document.addEventListener('click',function(ev){var a=ev.target.closest&&ev.target.closest('[data-join]');if(!a)return;fbq('track','Lead',{content_name:document.title});if(window.gtag)gtag('event','join_tap',{page_title:document.title});fbq('trackCustom','JoinTapA');
+document.addEventListener('click',function(ev){var a=ev.target.closest&&ev.target.closest('[data-join]');if(!a)return;fbq('track','Lead',{content_name:document.title});fbq('trackCustom','JoinTapA');if(window.gtag)gtag('event','join_tap',{page_title:document.title});
 var h=a.getAttribute('href');if(!h||h.charAt(0)==='#'||ev.metaKey||ev.ctrlKey)return;ev.preventDefault();
 /* give the Lead hit time to leave before the phone jumps to the WhatsApp app */setTimeout(function(){location.href=h},350);},true);</script>
 <noscript><img height="1" width="1" style="display:none" src="https://www.facebook.com/tr?id=1895010951663413&ev=PageView&noscript=1"/></noscript>
@@ -66,9 +65,9 @@ var h=a.getAttribute('href');if(!h||h.charAt(0)==='#'||ev.metaKey||ev.ctrlKey)re
 <main class="card">
   <img class="logo" src="../img/logo.png" alt="שווה לגבר" width="150" height="150">
   <h1>מחפש כלים, ציוד לרכב ולשטח במחיר של חו״ל?</h1>
-  <p class="lead">הצטרף ל<b>שווה לגבר</b>, קהילת וואטסאפ שקטה עם הדילים הכי שווים מעליאקספרס.</p>
+  <p class="lead">הצטרף ל<b>שווה לגבר</b>, קהילת וואטסאפ שקטה עם הדילים הכי שווים אונליין.</p>
   <p class="find">בקהילה תמצא:</p>
-  <ul><li><svg viewBox="0 0 24 24" aria-hidden="true"><circle cx="12" cy="12" r="12" fill="var(--accent)"/><path d="M7 12.5l3.2 3.2L17 9" fill="none" stroke="#fff" stroke-width="2.6" stroke-linecap="round" stroke-linejoin="round"/></svg><span>כלי עבודה: מברגות, סטים, מדחסים</span></li><li><svg viewBox="0 0 24 24" aria-hidden="true"><circle cx="12" cy="12" r="12" fill="var(--accent)"/><path d="M7 12.5l3.2 3.2L17 9" fill="none" stroke="#fff" stroke-width="2.6" stroke-linecap="round" stroke-linejoin="round"/></svg><span>אביזרים לרכב וציוד קמפינג ושטח</span></li><li><svg viewBox="0 0 24 24" aria-hidden="true"><circle cx="12" cy="12" r="12" fill="var(--accent)"/><path d="M7 12.5l3.2 3.2L17 9" fill="none" stroke="#fff" stroke-width="2.6" stroke-linecap="round" stroke-linejoin="round"/></svg><span>גאדג&#x27;טים, תאורה ופנסים</span></li><li><svg viewBox="0 0 24 24" aria-hidden="true"><circle cx="12" cy="12" r="12" fill="var(--accent)"/><path d="M7 12.5l3.2 3.2L17 9" fill="none" stroke="#fff" stroke-width="2.6" stroke-linecap="round" stroke-linejoin="round"/></svg><span>ליד כל דיל: המחיר בארץ מול המחיר בעלי</span></li><li><svg viewBox="0 0 24 24" aria-hidden="true"><circle cx="12" cy="12" r="12" fill="var(--accent)"/><path d="M7 12.5l3.2 3.2L17 9" fill="none" stroke="#fff" stroke-width="2.6" stroke-linecap="round" stroke-linejoin="round"/></svg><span>📦 חלק מהדילים נשלחים מישראל</span></li></ul>
+  <ul><li><svg viewBox="0 0 24 24" aria-hidden="true"><circle cx="12" cy="12" r="12" fill="var(--accent)"/><path d="M7 12.5l3.2 3.2L17 9" fill="none" stroke="#fff" stroke-width="2.6" stroke-linecap="round" stroke-linejoin="round"/></svg><span>כלי עבודה: מברגות, סטים, מדחסים</span></li><li><svg viewBox="0 0 24 24" aria-hidden="true"><circle cx="12" cy="12" r="12" fill="var(--accent)"/><path d="M7 12.5l3.2 3.2L17 9" fill="none" stroke="#fff" stroke-width="2.6" stroke-linecap="round" stroke-linejoin="round"/></svg><span>אביזרים לרכב וציוד קמפינג ושטח</span></li><li><svg viewBox="0 0 24 24" aria-hidden="true"><circle cx="12" cy="12" r="12" fill="var(--accent)"/><path d="M7 12.5l3.2 3.2L17 9" fill="none" stroke="#fff" stroke-width="2.6" stroke-linecap="round" stroke-linejoin="round"/></svg><span>גאדג&#x27;טים, תאורה ופנסים</span></li><li><svg viewBox="0 0 24 24" aria-hidden="true"><circle cx="12" cy="12" r="12" fill="var(--accent)"/><path d="M7 12.5l3.2 3.2L17 9" fill="none" stroke="#fff" stroke-width="2.6" stroke-linecap="round" stroke-linejoin="round"/></svg><span>ליד כל דיל: המחיר בארץ מול הדיל שלנו</span></li><li><svg viewBox="0 0 24 24" aria-hidden="true"><circle cx="12" cy="12" r="12" fill="var(--accent)"/><path d="M7 12.5l3.2 3.2L17 9" fill="none" stroke="#fff" stroke-width="2.6" stroke-linecap="round" stroke-linejoin="round"/></svg><span>📦 חלק מהדילים נשלחים מישראל</span></li></ul>
   <p class="quiet">🔇 קבוצה שקטה – בלי חפירות. רק דילים והמלצות.</p>
   <a class="go" href="https://chat.whatsapp.com/LGcSTJL4X9g83Wef4XJM8X" rel="noopener" data-join><svg viewBox="0 0 32 32" aria-hidden="true"><path fill="currentColor" d="M16 3a13 13 0 0 0-11.2 19.6L3 29l6.6-1.7A13 13 0 1 0 16 3zm0 23.6c-2 0-4-.5-5.7-1.6l-.4-.2-3.9 1 1-3.8-.3-.4A10.6 10.6 0 1 1 16 26.6zm5.8-7.9c-.3-.2-1.9-.9-2.2-1-.3-.1-.5-.2-.7.2l-1 1.2c-.2.2-.4.2-.7.1a8.7 8.7 0 0 1-4.3-3.8c-.3-.6.3-.5.9-1.7.1-.2 0-.4 0-.6l-1-2.4c-.3-.6-.5-.5-.7-.5h-.6c-.2 0-.6.1-.9.4-.3.3-1.2 1.2-1.2 2.9s1.2 3.3 1.4 3.6c.2.2 2.4 3.7 5.8 5.2 2.2.9 3 1 4.1.8.7-.1 1.9-.8 2.2-1.6.3-.8.3-1.4.2-1.6-.1-.1-.3-.2-.6-.3z"/></svg><span>הצטרף לקהילה</span></a>
   <p class="micro">בחינם · אפשר לצאת בכל רגע</p>

diff --git a/join-b/index.html b/join-b/index.html
@@ -1,8 +1,4 @@
-<!doctype html><html lang="he" dir="rtl"><head>
-<!-- Google tag (GA4) -->
-<script async src="https://www.googletagmanager.com/gtm.js?id=GTM-KSTKHQN8"></script>
-<script>window.dataLayer=window.dataLayer||[];function gtag(){dataLayer.push(arguments)}gtag('js',new Date());</script>
-<meta charset="utf-8">
+<!doctype html><html lang="he" dir="rtl"><head><meta charset="utf-8">
 <meta name="viewport" content="width=device-width,initial-scale=1,viewport-fit=cover">
 <title>שווה לגבר | הצטרפות</title><meta name="robots" content="noindex">
 <link rel="preconnect" href="https://fonts.googleapis.com"><link rel="preconnect" href="https://fonts.gstatic.com" crossorigin>
@@ -34,13 +30,16 @@ h1{font:900 clamp(26px,7vw,34px)/1.15 "Rubik",sans-serif;margin:12px 0 6px;text-
 .hintbox div{background:#fff;border-radius:18px;padding:22px;max-width:340px;text-align:center;font:600 18px/1.45 "Rubik",sans-serif}
 .hintbox a{display:block;margin-top:12px;font-size:15px;color:#1fa855}
 </style>
+<!-- Google tag (GA4) -->
+<script async src="https://www.googletagmanager.com/gtm.js?id=GTM-KSTKHQN8"></script>
+<script>window.dataLayer=window.dataLayer||[];function gtag(){dataLayer.push(arguments)}gtag('js',new Date());</script>
 <!-- Meta Pixel -->
 <script>!function(f,b,e,v,n,t,s){if(f.fbq)return;n=f.fbq=function(){n.callMethod?n.callMethod.apply(n,arguments):n.queue.push(arguments)};if(!f._fbq)f._fbq=n;n.push=n;n.loaded=!0;n.version='2.0';n.queue=[];t=b.createElement(e);t.async=!0;t.src=v;s=b.getElementsByTagName(e)[0];s.parentNode.insertBefore(t,s)}(window,document,'script','https://connect.facebook.net/en_US/fbevents.js');
 fbq('init','1895010951663413');fbq('track','PageView');fbq('trackCustom','JoinViewB');
 </script><noscript><img height="1" width="1" style="display:none" src="https://www.facebook.com/tr?id=1895010951663413&ev=PageView&noscript=1"/></noscript>
 </head><body>
 <header class="top"><div class="brand"><img src="img/logo.png" alt="">שווה לגבר</div>
-<h1>כלים, רכב וגאדג׳טים, במחיר של חו״ל</h1><p class="sub">דילים מעליאקספרס כל יום, ישר לוואטסאפ. ליד כל דיל: המחיר בארץ מול המחיר בעלי.</p><a class="go" href="https://chat.whatsapp.com/LGcSTJL4X9g83Wef4XJM8X" data-join><svg viewBox="0 0 32 32" aria-hidden="true"><path fill="currentColor" d="M16 3a13 13 0 0 0-11.2 19.6L3 29l6.6-1.7A13 13 0 1 0 16 3zm0 23.6c-2 0-4-.5-5.7-1.6l-.4-.2-3.9 1 1-3.8-.3-.4A10.6 10.6 0 1 1 16 26.6zm5.8-7.9c-.3-.2-1.9-.9-2.2-1-.3-.1-.5-.2-.7.2l-1 1.2c-.2.2-.4.2-.7.1a8.7 8.7 0 0 1-4.3-3.8c-.3-.6.3-.5.9-1.7.1-.2 0-.4 0-.6l-1-2.4c-.3-.6-.5-.5-.7-.5h-.6c-.2 0-.6.1-.9.4-.3.3-1.2 1.2-1.2 2.9s1.2 3.3 1.4 3.6c.2.2 2.4 3.7 5.8 5.2 2.2.9 3 1 4.1.8.7-.1 1.9-.8 2.2-1.6.3-.8.3-1.4.2-1.6-.1-.1-.3-.2-.6-.3z"/></svg><span>הצטרף לקבוצה בחינם</span></a>
+<h1>כלים, רכב וגאדג׳טים, במחיר של חו״ל</h1><p class="sub">דילים שווים אונליין, ישר לוואטסאפ. ליד כל דיל: המחיר בארץ מול הדיל שלנו.</p><a class="go" href="https://chat.whatsapp.com/LGcSTJL4X9g83Wef4XJM8X" data-join><svg viewBox="0 0 32 32" aria-hidden="true"><path fill="currentColor" d="M16 3a13 13 0 0 0-11.2 19.6L3 29l6.6-1.7A13 13 0 1 0 16 3zm0 23.6c-2 0-4-.5-5.7-1.6l-.4-.2-3.9 1 1-3.8-.3-.4A10.6 10.6 0 1 1 16 26.6zm5.8-7.9c-.3-.2-1.9-.9-2.2-1-.3-.1-.5-.2-.7.2l-1 1.2c-.2.2-.4.2-.7.1a8.7 8.7 0 0 1-4.3-3.8c-.3-.6.3-.5.9-1.7.1-.2 0-.4 0-.6l-1-2.4c-.3-.6-.5-.5-.7-.5h-.6c-.2 0-.6.1-.9.4-.3.3-1.2 1.2-1.2 2.9s1.2 3.3 1.4 3.6c.2.2 2.4 3.7 5.8 5.2 2.2.9 3 1 4.1.8.7-.1 1.9-.8 2.2-1.6.3-.8.3-1.4.2-1.6-.1-.1-.3-.2-.6-.3z"/></svg><span>הצטרף לקבוצה בחינם</span></a>
 <p class="trust"><span>✓ בחינם</span><span>✓ בלי ספאם</span><span>✓ יוצאים בלחיצה</span><span>📦 חלק מהדילים נשלחים מישראל</span></p></header>
 <section class="deals"><h2>ככה נראים הדילים אצלנו</h2><div class="grid"><img src="img/gever-1.jpg" alt="" loading="lazy" width="360" height="360"><img src="img/gever-2.jpg" alt="" loading="lazy" width="360" height="360"><img src="img/gever-3.jpg" alt="" loading="lazy" width="360" height="360"></div>
 <p class="note">דילים אמיתיים מהשבוע מהקבוצה. המחירים נכונים ליום הפרסום.</p>

diff --git a/guide/index.html b/guide/index.html
@@ -153,7 +153,7 @@ footer{text-align:center;margin-top:26px;font-size:14px;color:#666}
 <div class="wa">מברגה נטענת 20V עם 2 סוללות
 
 בארץ: 399 ₪
-בעלי: 129 ₪
+הדיל שלנו: 129 ₪
 
 ✅ למה בחרנו: דירוג גבוה, הרבה קונים
 👈 <a>לקישור</a></div>
